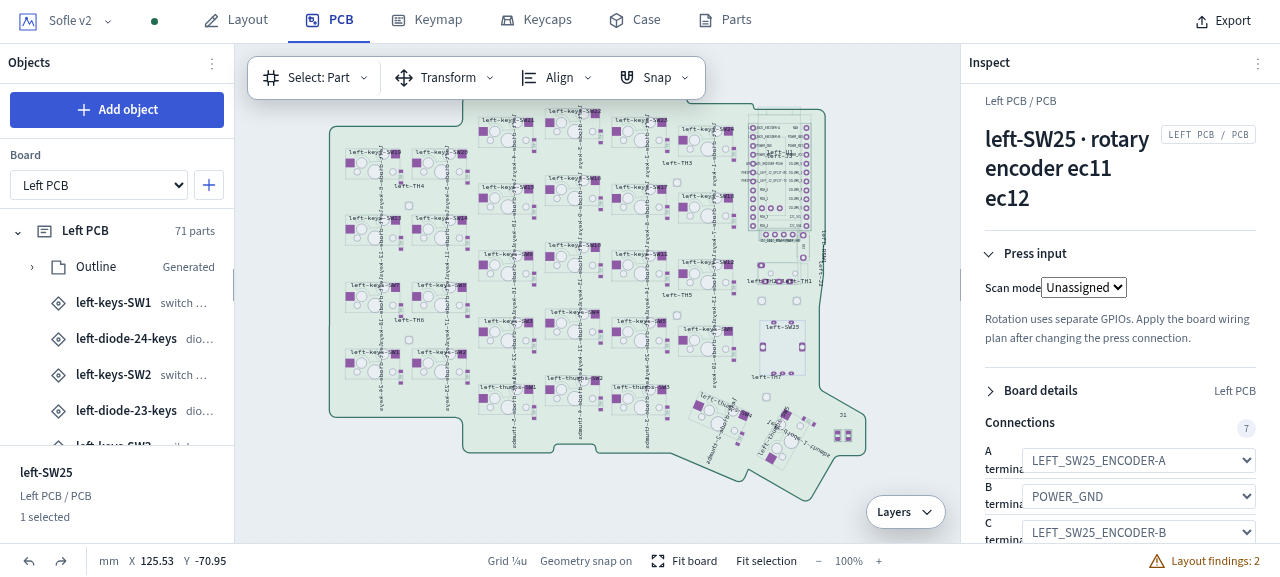
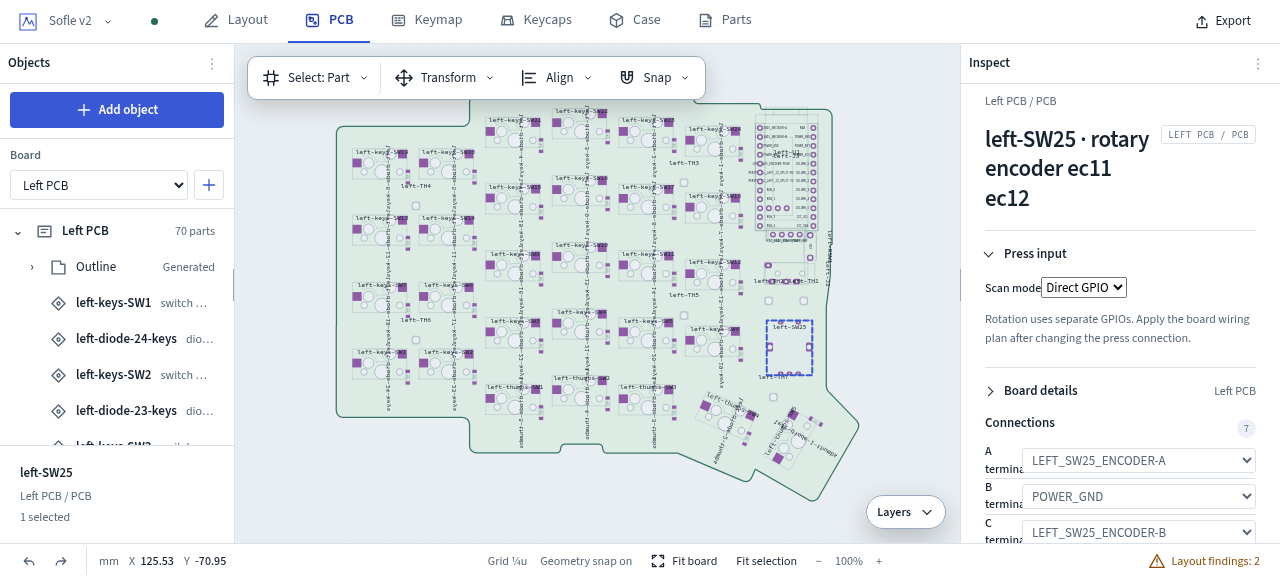
docs: correct paired PCB press evidence

Changed region(s): [[0.25, 0.1872, 0.6875, 0.8735], [0.8125, 0.4679, 0.875, 0.5303], [0.5312, 0.7799, 0.5625, 0.8111]]

diff --git a/.scratch/dioxus-pcb-view/evidence/public-pcb-qualification-20261002/f32c-start-gate-join.md b/.scratch/dioxus-pcb-view/evidence/public-pcb-qualification-20261002/f32c-start-gate-join.md
@@ -1,0 +1,30 @@
+# F3.2c public gap and capability start gate
+
+**Purpose:** connect the paired PCB Parts observation to the existing F3.2c draft and its current private placement composition. This is a planning/evidence addendum, not a second ticket, a parent acceptance, or an implementation claim.
+
+## Public trigger
+
[1 lines of base64/hex data omitted]
+
+## Canonical and operational gates
+
+- Preserve F3.2's canonical graph record and its sole `start_after: [F3.1]` edge. F3.2c is a child execution ticket only; it does not add dependencies, change any of the 62 parent tasks or close F3.2/F4/PCB acceptance joins.
+- Capability-level work may start when the specific F3.1 inputs consumed by this child are available: active project accepted snapshot and identity, current board/layout scope, selection adapter/scope generation, accepted catalogue/project-definition projection, canvas center/snap settings, and the existing placement/edit-history submission path. It need not wait for all of F3.1, F3.2, or the Parts milestone; fixture-backed work can exercise each required capability.
+- The ticket is published; any final independent review refinement should amend that existing issue in place. Its canonical implementation start gate is F3.1, with the child-specific consumed capabilities listed above. Retain the public paired React/Dioxus journey, same-fixture edit, Undo/Redo, archive reopen, keyboard/pointer/cancel, stale-context, focus, compact and theme checks as ticket acceptance evidence. Source presence, an isolated hook test, or this planning note does not satisfy public acceptance.
+
+## Existing placement seam and non-overlap
+
+The exact shared-source join reviewed at `9d34f3672f4f05cb3771bc5cd358508b13e9c31f` has one private `PartPlacement` arbiter owner and one placement owner mounted by the Layout canvas shell. Its reviewed bounded composition also carries Parts scope-generation signals, accepted project-definition fallback, and the current session operation/history path. Reuse these existing private authorities where their types and behavior fit; do not add an arbiter, independent writable project state, public API, schema field, core operation, or second ID authority. Root/coordinator retains accepted definition projection, ID allocation, typed callback translation, selection/navigation, shared route mount and build integration.
+
+The existing Parts inspector's **Place component** is a narrower guided controller action: it is available only while the matching project's SetupGuide is open at Wiring and the selected definition is a `PartKind::Controller`; it invokes `on_place_controller`. That proves a controller-specific placement route and the shared arbiter integration, not general catalogue placement readiness. Keep it distinct from F3.2c:
+
+1. **Add object → Parts:** selecting a definition starts standalone placement on the active board, including when a key is selected; the destination may be Board/ungrouped or a layout on that board.
+2. **Parts workspace with selected key scope:** selecting an applicable switch/input definition updates the key assembly; another eligible definition appends an attached assembly. Other scopes use standalone placement. Do not route this path through the controller-guide-only action or invent component/key identity.
+
[1 lines of base64/hex data omitted]
+
+## Qualification limits carried forward
+
+The reviewed packaged Ergogen catalogue has 36 sources and no anchor-typed field. The supported SMD net controls, including `net_3_from`, round-trip in the paired archive and do not demonstrate anchor support. Do not add synthetic catalogue definitions or expand the package/API to make an absent field appear. Preserve the true catalogue readiness and existing RF ledger. No new refactoring takeaway observed in this evidence.
+
+**Review/ownership handoff:** project Parts stream audit owns the single F3.2c implementation packet; Sol 6.1 High reviews the same bounded capability inventory and exact contract. Use the existing draft and update/refine it in place if review identifies a necessary contract correction; do not create a duplicate ticket. Keep source/build frozen while the root package gate runs.

diff --git a/.scratch/dioxus-pcb-view/evidence/public-pcb-qualification-20261002/next-frontier.md b/.scratch/dioxus-pcb-view/evidence/public-pcb-qualification-20261002/next-frontier.md
@@ -4,7 +4,9 @@ The paired PCB07/08 controls work on the mounted public route for the fixtures e
 
 In Dioxus, searching `smd_0805` shows a real catalogue result, footprint preview, and selected-definition metadata. The corresponding React screen also provides **Place component** and its generator settings action. I used that React action to add J1 to the derived fixture, which the candidate then imported and edited successfully. The difference is visible in `candidate-parts-library.png` and `react-parts-catalog-smd0805.png`.
 
-This is already mapped by the bounded F3.2c draft [Add a library component to the board or selected key](../../../../dioxus-layout-authoring/drafts/03-component-placement.md). Its standalone `Add object → Parts` path and contextual Parts action cover the missing route, including normal edit/history and reopen behavior. Keep that existing draft as the next planning frontier; do not create a duplicate ticket or widen F4/PCB08 scope. It remains a draft pending the required independent review and retains F3.1 as its canonical start gate.
[1 lines of base64/hex data omitted]
+
+The initial React press screenshot in this packet showed 71 parts because it was captured after creating the separate J1 fixture. It has been replaced with a fresh isolated React session that re-imported the original 70-part Sofle archive, selected `left-SW25`, changed Press scan mode to Unassigned, reloaded, and verified Unassigned again after returning to PCB. The canonical `react-press-unassigned.png` and `react-press-postreload.png` now show 70 parts, matching the candidate press captures. The derived J1 archive remains separate and is used only for the generic Ergogen binding comparison. The reproducible screen record is [f32c-start-gate-join.md](f32c-start-gate-join.md).
 
 The public catalogue and packaged schema readiness are truthful for the supported fields: `infused-kim/smd_0805` exposes net parameters but the current 36-source package has no anchor-typed field. Keep anchor support conditional and do not manufacture a test definition to make it appear reachable.
 

diff --git a/.scratch/dioxus-pcb-view/evidence/public-pcb-qualification-20261002/paired-walkthrough.md b/.scratch/dioxus-pcb-view/evidence/public-pcb-qualification-20261002/paired-walkthrough.md
@@ -6,6 +6,7 @@
 - Dioxus candidate: `http://127.0.0.1:34731/`, integrated source/build stamp `792e88af` (coordinator-provided); isolated browser session `pcb-public-qualification-7dd31abc1fc4`.
 - React reference: `http://127.0.0.1:5173/`, pinned commit `5a472a9426e6e38993361da402cd4ec730feb369`; isolated browser sessions `pcb-public-react-bbdc227a1db0` and `pcb-public-generic-bbdc227a1db0`.
[1 lines of base64/hex data omitted]
+- React press recheck: isolated browser session `pcb-react-original-20261002-2318ea1a1376` re-imported that exact archive, showed `Left PCB · 70 parts`, selected `left-SW25`, chose Unassigned, then reloaded and verified Unassigned after returning to PCB. This replaces an earlier React press capture taken from the later 71-part derived J1 project; the corrected same-fixture captures are `react-press-unassigned.png` and `react-press-postreload.png`.
 - The source app and candidate sessions used isolated browser storage. The original fixture was not overwritten.
 
 ## Sofle rotary encoder journey
@@ -33,7 +34,7 @@ The exported `project.json` confirms J1 ID `ui-b08a5e94-2888-4948-b78c-c195f961b
 
 ## Evidence files
 
-- `candidate-press-unassigned.png`, `candidate-press-postreload.png`, `react-press-unassigned.png`
+- `candidate-press-unassigned.png`, `candidate-press-postreload.png`, `react-press-unassigned.png`, `react-press-postreload.png`
 - `candidate-switch-inspector.png`, `react-switch-inspector.png`
 - `candidate-controller-wiring.png`, `react-controller-wiring.png`
 - `candidate-generic-default.png`, `react-generic-default.png`
